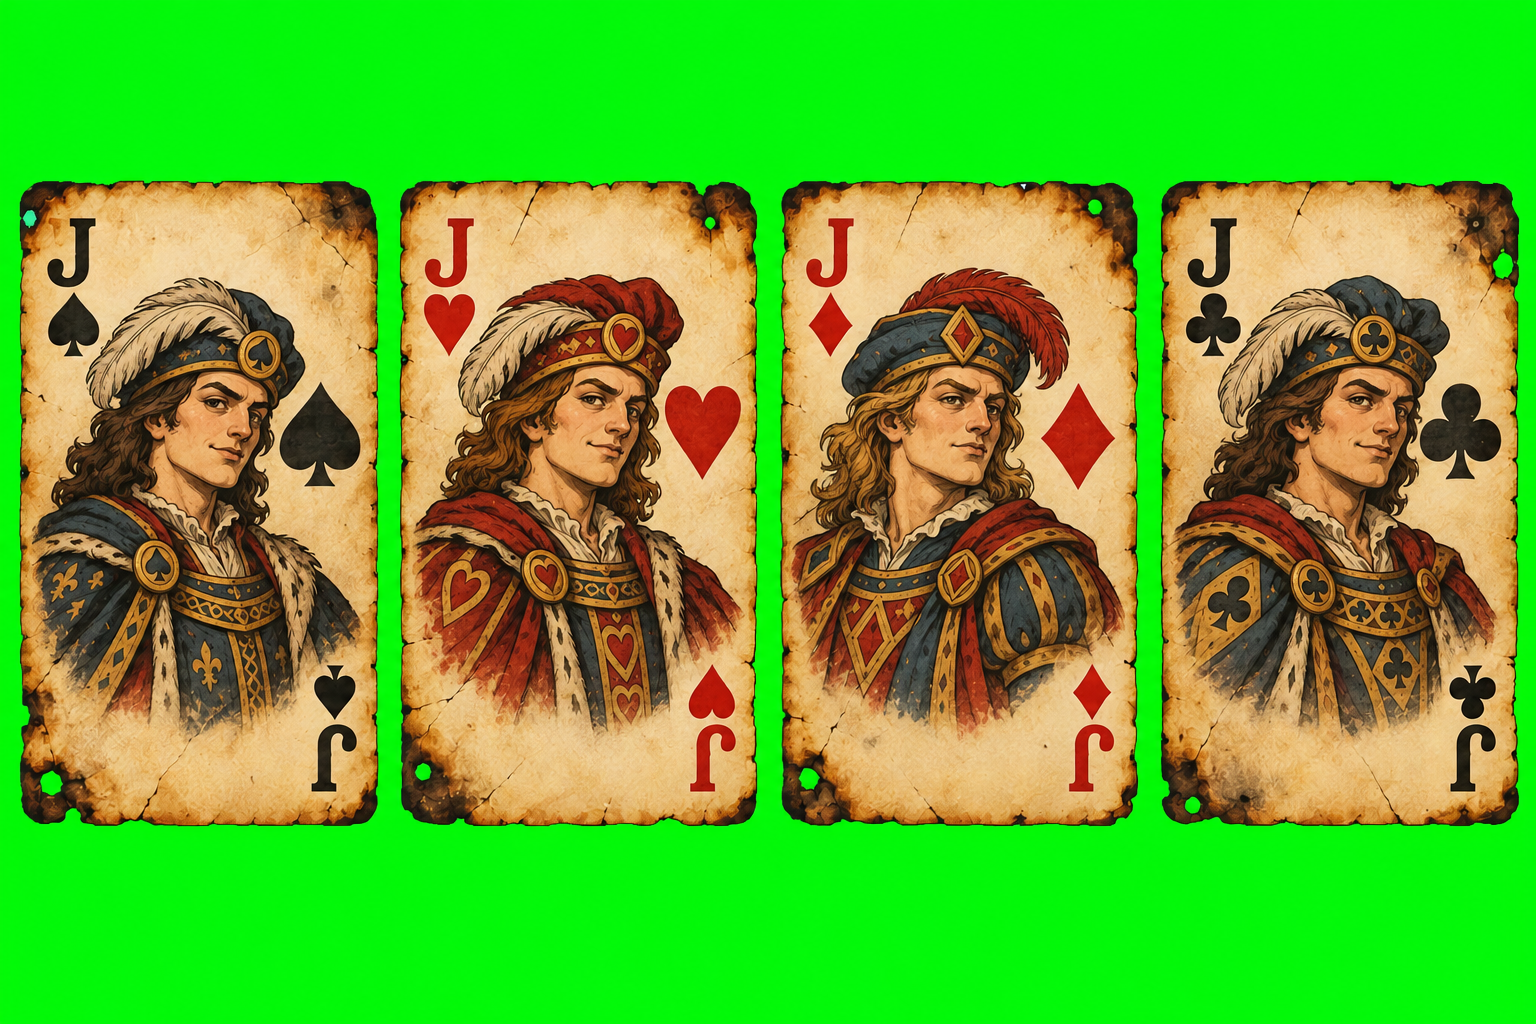
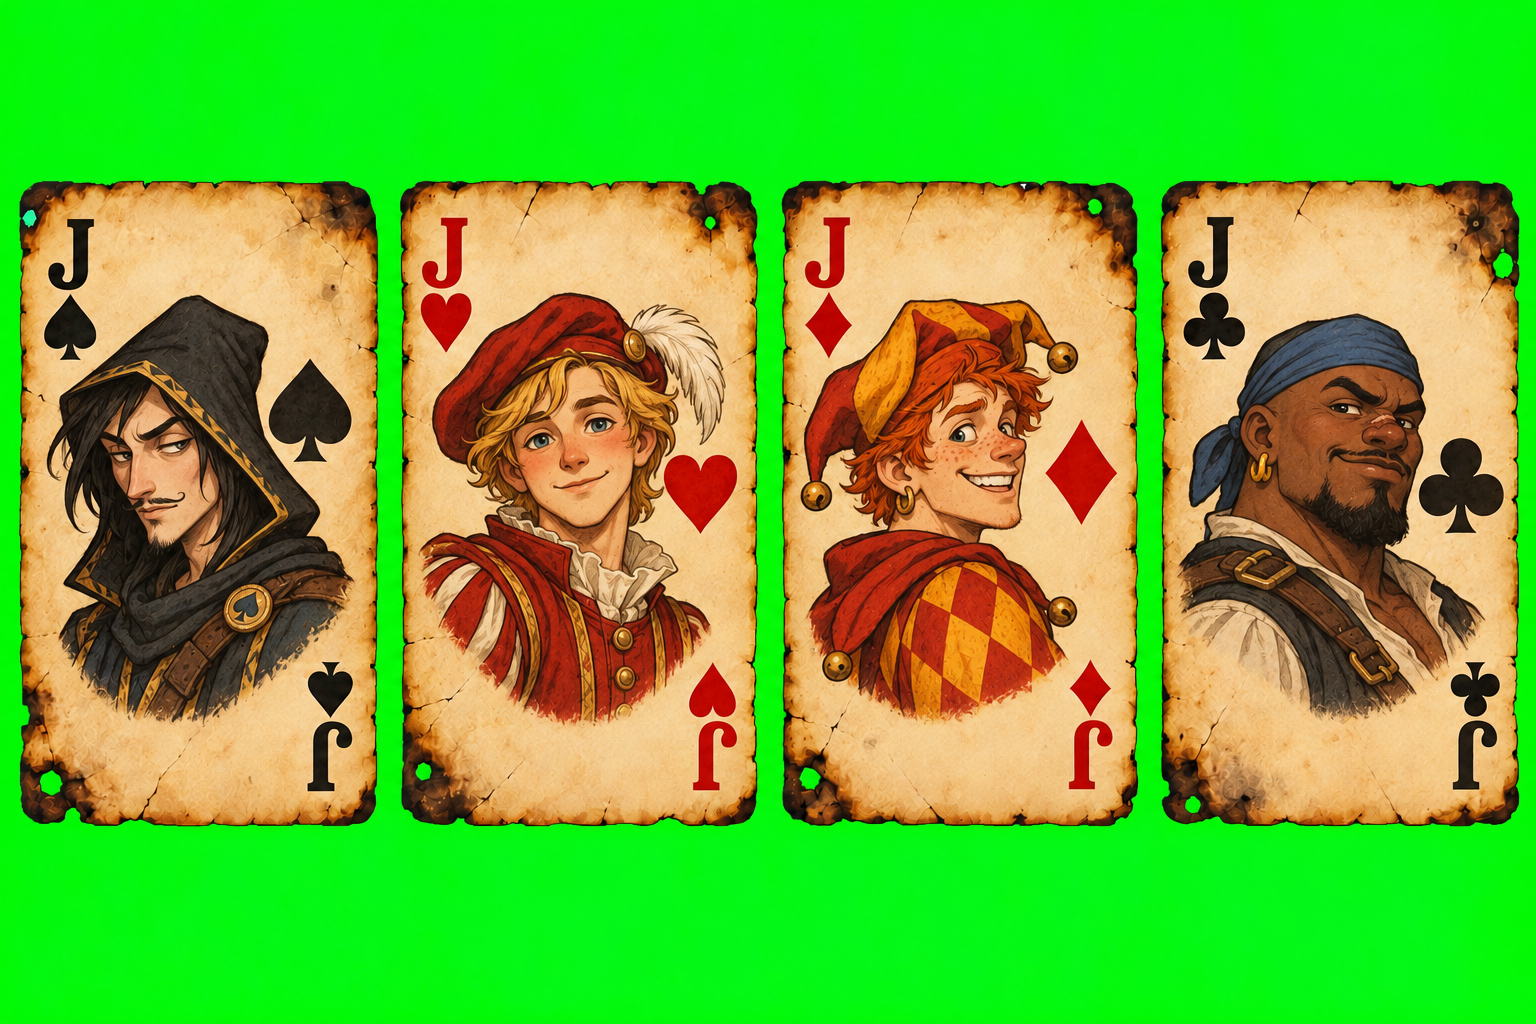
Add card animations, bigger pile cards and distinct court characters

diff --git a/src/ui/animations.ts b/src/ui/animations.ts
@@ -1,0 +1,160 @@
+import { RefObject, useLayoutEffect, useRef } from 'react';
+import { LogEntry } from '../game/engine';
+import { PlayerView } from '../game/session';
+import { cardImage } from './CardView';
+
+// Анимация карт по приёму FLIP: после каждой перерисовки сравниваем, где карта
+// была и где оказалась, и проигрываем движение между этими положениями.
+// Карты, которых на экране не было (ход соперника), вылетают от его места;
+// карты, которые с экрана пропали (соперник взял), улетают к нему «призраком».
+
+const FLY_MS = 360;
+const DEAL_STEP_MS = 45;
+const GROUP_STEP_MS = 70;
+const EASING = 'cubic-bezier(0.2, 0.8, 0.2, 1)';
+
+const reducedMotion = () => window.matchMedia('(prefers-reduced-motion: reduce)').matches;
+
+function fly(el: HTMLElement, from: DOMRect, to: DOMRect, delay: number, fadeIn = false): void {
+  const dx = from.left - to.left;
+  const dy = from.top - to.top;
+  const sx = from.width / to.width;
+  const sy = from.height / to.height;
+  if (Math.abs(dx) < 1 && Math.abs(dy) < 1 && Math.abs(sx - 1) < 0.01) return;
+  // летящая карта должна быть поверх кнопок и руки
+  el.style.zIndex = '5';
+  const start = `translate(${dx}px, ${dy}px) scale(${sx}, ${sy})`;
+  const animation = el.animate(
+    [
+      { transformOrigin: 'top left', transform: start, opacity: fadeIn ? 0 : 1 },
+      { transformOrigin: 'top left', transform: 'none', opacity: 1 },
+    ],
+    { duration: FLY_MS, easing: EASING, delay, fill: 'backwards' },
+  );
+  const reset = () => {
+    el.style.zIndex = '';
+  };
+  animation.onfinish = reset;
+  animation.oncancel = reset;
+}
+
+/** Карта, которой уже нет в разметке, долетает до цели отдельной картинкой и исчезает. */
+function ghost(cardId: string, from: DOMRect, to: DOMRect, delay: number): void {
+  const img = document.createElement('img');
+  img.src = cardImage(cardId);
+  img.alt = '';
+  img.style.cssText =
+    `position:fixed;left:${from.left}px;top:${from.top}px;width:${from.width}px;height:${from.height}px;` +
+    'z-index:6;pointer-events:none;transform-origin:top left;filter:drop-shadow(0 2px 3px rgba(0,0,0,.55))';
+  document.body.appendChild(img);
+  const end = `translate(${to.left - from.left}px, ${to.top - from.top}px) scale(${to.width / from.width}, ${to.height / from.height})`;
+  const animation = img.animate(
+    [
+      { transform: 'none', opacity: 1 },
+      { transform: end, opacity: 1, offset: 0.85 },
+      { transform: end, opacity: 0 },
+    ],
+    { duration: FLY_MS, easing: EASING, delay, fill: 'both' },
+  );
+  animation.onfinish = () => img.remove();
+  animation.oncancel = () => img.remove();
+}
+
+/** Место, откуда вылетают и куда прилетают карты соперника. */
+function seatRect(root: HTMLElement, seat: number): DOMRect | null {
+  const stack = root.querySelector<HTMLElement>(`[data-seat="${seat}"] .opp-cards`);
+  if (!stack) return null;
+  const card = stack.querySelector<HTMLElement>('.card:last-child');
+  if (card) return card.getBoundingClientRect();
+  // у соперника не осталось карт — берём середину его области
+  const box = stack.getBoundingClientRect();
+  const height = box.height;
+  const width = height / 1.785;
+  return new DOMRect(box.left + (box.width - width) / 2, box.top, width, height);
+}
+
+export function useCardAnimations(
+  rootRef: RefObject<HTMLElement | null>,
+  view: PlayerView | null,
+  tutorial: boolean,
+): void {
+  const previousView = useRef<PlayerView | null>(null);
+  const previousRects = useRef(new Map<string, DOMRect>());
+
+  useLayoutEffect(() => {
+    const root = rootRef.current;
+    if (!root || !view) return;
+
+    const last = previousView.current;
+    if (
+      !tutorial &&
+      last &&
+      last.dealNo === view.dealNo &&
+      last.moveNo === view.moveNo &&
+      last.phase === view.phase
+    ) {
+      // тот же стол пришёл повторно — идущие анимации не трогаем
+      previousView.current = view;
+      return;
+    }
+
+    const cards = [...root.querySelectorAll<HTMLElement>('[data-card]')];
+    // незаконченные движения исказили бы замер положений
+    cards.forEach((el) => el.getAnimations().forEach((animation) => animation.cancel()));
+    const now = new Map(cards.map((el) => [el.dataset.card!, { el, rect: el.getBoundingClientRect() }]));
+
+    const before = previousView.current;
+    const old = previousRects.current;
+    previousView.current = view;
+    previousRects.current = new Map([...now].map(([id, { rect }]) => [id, rect]));
+
+    if (reducedMotion()) return;
+
+    const center = root.querySelector<HTMLElement>('.pile .card')?.getBoundingClientRect() ?? null;
+    const newDeal = !before || before.dealNo !== view.dealNo;
+    // в обучении каждая новая позиция просто проявляется, без перелётов
+    const newPosition = tutorial && !!before && view.moveNo <= before.moveNo;
+
+    if (newDeal && !tutorial && center) {
+      // раздача: карты разлетаются из центра стола
+      [...root.querySelectorAll<HTMLElement>('.hand .card, .opp-cards .card')].forEach((el, i) => {
+        fly(el, center, el.getBoundingClientRect(), i * DEAL_STEP_MS, true);
+      });
+      return;
+    }
+    if (newDeal || newPosition) {
+      now.forEach(({ el }) => el.animate([{ opacity: 0 }, { opacity: 1 }], { duration: 250 }));
+      return;
+    }
+
+    const fresh: LogEntry[] = view.moveNo > before.moveNo ? view.log.slice(-(view.moveNo - before.moveNo)) : [];
+    const entryOf = (cardId: string) =>
+      fresh.find((entry) => entry.cards.some((card) => card.id === cardId));
+    const order = (entry: LogEntry, cardId: string) =>
+      entry.cards.findIndex((card) => card.id === cardId) * GROUP_STEP_MS;
+
+    now.forEach(({ el, rect }, id) => {
+      const from = old.get(id);
+      if (from) {
+        // карта осталась на экране: сдвиг в руке, мой ход или моё взятие
+        const entry = entryOf(id);
+        fly(el, from, rect, entry ? order(entry, id) : 0);
+        return;
+      }
+      const entry = entryOf(id);
+      const source = entry?.type === 'play' ? seatRect(root, entry.player) : null;
+      if (entry && source) fly(el, source, rect, order(entry, id));
+      else el.animate([{ opacity: 0 }, { opacity: 1 }], { duration: 250 });
+    });
+
+    old.forEach((from, id) => {
+      if (now.has(id)) return;
+      const entry = entryOf(id);
+      if (!entry) return;
+      // соперник забрал карту или карта ушла под стопку
+      const hidden = root.querySelector<HTMLElement>('.pile .stack')?.getBoundingClientRect() ?? center;
+      const target = entry.type === 'take' ? seatRect(root, entry.player) : hidden;
+      if (target) ghost(id, from, target, order(entry, id));
+    });
+  }, [rootRef, view, tutorial]);
+}

diff --git a/src/ui/Table.tsx b/src/ui/Table.tsx
@@ -2,6 +2,7 @@ import { useEffect, useRef, useState } from 'react';
 import { GAME_TITLE } from '../config';
 import { Card, legalMoves, takeCount } from '../game/engine';
 import { PlayerInfo, PlayerView, Session } from '../game/session';
+import { useCardAnimations } from './animations';
 import { CardBack, CardView } from './CardView';
 import { Rules } from './Rules';
 import { playSound } from './sound';
@@ -33,6 +34,7 @@ export function Table({ session, onExit, notice, coach }: TableProps) {
   const [showRules, setShowRules] = useState(false);
 
   const previous = useRef<PlayerView | null>(null);
+  const tableRef = useRef<HTMLDivElement>(null);
   const tutorial = coach !== undefined;
 
   useEffect(() => session.subscribe(setView), [session]);
@@ -42,6 +44,8 @@ export function Table({ session, onExit, notice, coach }: TableProps) {
     playViewSounds(previous.current, view, tutorial);
     previous.current = view;
   }, [view, tutorial]);
+
+  useCardAnimations(tableRef, view, tutorial);
 
   if (!view) {
     return (
@@ -83,7 +87,7 @@ export function Table({ session, onExit, notice, coach }: TableProps) {
   const recent = view.log.slice(-3).reverse();
 
   return (
-    <div className="table">
+    <div className="table" ref={tableRef}>
       <header className="topbar">
         <span className="brand">{GAME_TITLE}</span>
         <span className="muted">{coach ? coach.title : `Раздача ${view.dealNo}`}</span>
@@ -104,7 +108,12 @@ export function Table({ session, onExit, notice, coach }: TableProps) {
 
       <section className="opponents">
         {opponents.map((seat) => (
-          <Opponent key={seat} player={players[seat]} active={playing && view.turn === seat} />
+          <Opponent
+            key={seat}
+            seat={seat}
+            player={players[seat]}
+            active={playing && view.turn === seat}
+          />
         ))}
       </section>
 
@@ -216,10 +225,10 @@ function letters(losses: number): string {
   return GAME_TITLE.slice(0, losses);
 }
 
-function Opponent({ player, active }: { player: PlayerInfo; active: boolean }) {
+function Opponent({ seat, player, active }: { seat: number; player: PlayerInfo; active: boolean }) {
   const out = player.place !== null;
   return (
-    <div className={`opponent ${active ? 'active' : ''} ${out ? 'out' : ''}`}>
+    <div className={`opponent ${active ? 'active' : ''} ${out ? 'out' : ''}`} data-seat={seat}>
       <div className="opp-name">
         {player.name}
         {player.losses > 0 && <span className="letters">{letters(player.losses)}</span>}

diff --git a/src/ui/CardView.tsx b/src/ui/CardView.tsx
@@ -2,7 +2,7 @@ import { Card, createDeck } from '../game/engine';
 import { cardLabel } from './text';
 
 // Картинки карт лежат в public/cards и нарезаются скриптом art/slice.py.
-const cardImage = (name: string) => `${import.meta.env.BASE_URL}cards/${name}.webp`;
+export const cardImage = (name: string) => `${import.meta.env.BASE_URL}cards/${name}.webp`;
 
 /** Загружает всю колоду заранее, чтобы карты не появлялись на столе с задержкой. */
 export function preloadCards(): void {
@@ -24,13 +24,19 @@ export function CardView({ card, dimmed, onClick }: CardViewProps) {
   const face = <img src={cardImage(card.id)} alt="" draggable={false} />;
   if (!onClick) {
     return (
-      <div className={className} role="img" aria-label={cardLabel(card)}>
+      <div className={className} data-card={card.id} role="img" aria-label={cardLabel(card)}>
         {face}
       </div>
     );
   }
   return (
-    <button type="button" className={className} aria-label={cardLabel(card)} onClick={onClick}>
+    <button
+      type="button"
+      className={className}
+      data-card={card.id}
+      aria-label={cardLabel(card)}
+      onClick={onClick}
+    >
       {face}
     </button>
   );

diff --git a/src/styles.css b/src/styles.css
@@ -420,6 +420,8 @@ button:focus-visible {
 }
 
 .pile {
+  /* стопка — центр стола, карты в ней крупнее, чем в руке */
+  --cw: clamp(56px, min(15vw, 13vh), 124px);
   display: flex;
   align-items: center;
   gap: calc(var(--cw) * 0.14);
@@ -431,37 +433,6 @@ button:focus-visible {
 
 .pile-top .card + .card {
   margin-left: calc(var(--cw) * -0.5);
-}
-
-.pile-top .card {
-  animation: drop 0.22s ease-out;
-}
-
-@keyframes drop {
-  from {
-    transform: translateY(-18px) scale(1.08);
-    opacity: 0;
-  }
-}
-
-.coach {
-  max-width: 520px;
-  padding: 12px 16px;
-  border-radius: 14px;
-  border: 1px solid var(--gold);
-  background: var(--panel);
-  display: flex;
-  flex-direction: column;
-  align-items: center;
-  gap: 10px;
-  text-align: center;
-  line-height: 1.4;
-}
-
-.done-mark {
-  font-size: 3rem;
-  text-align: center;
-  color: var(--gold);
 }
 
 .log {
